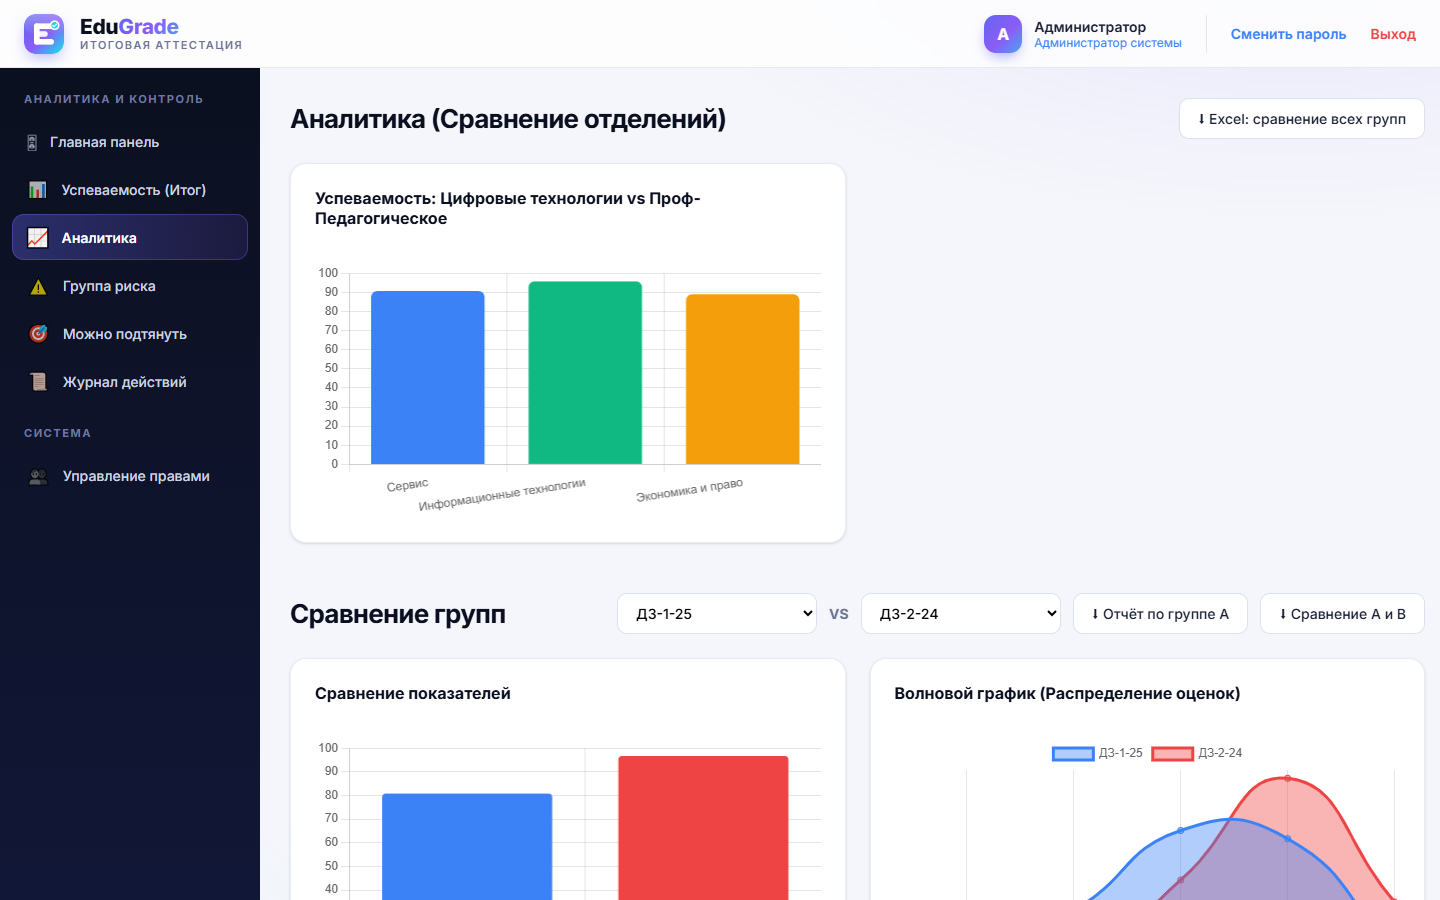
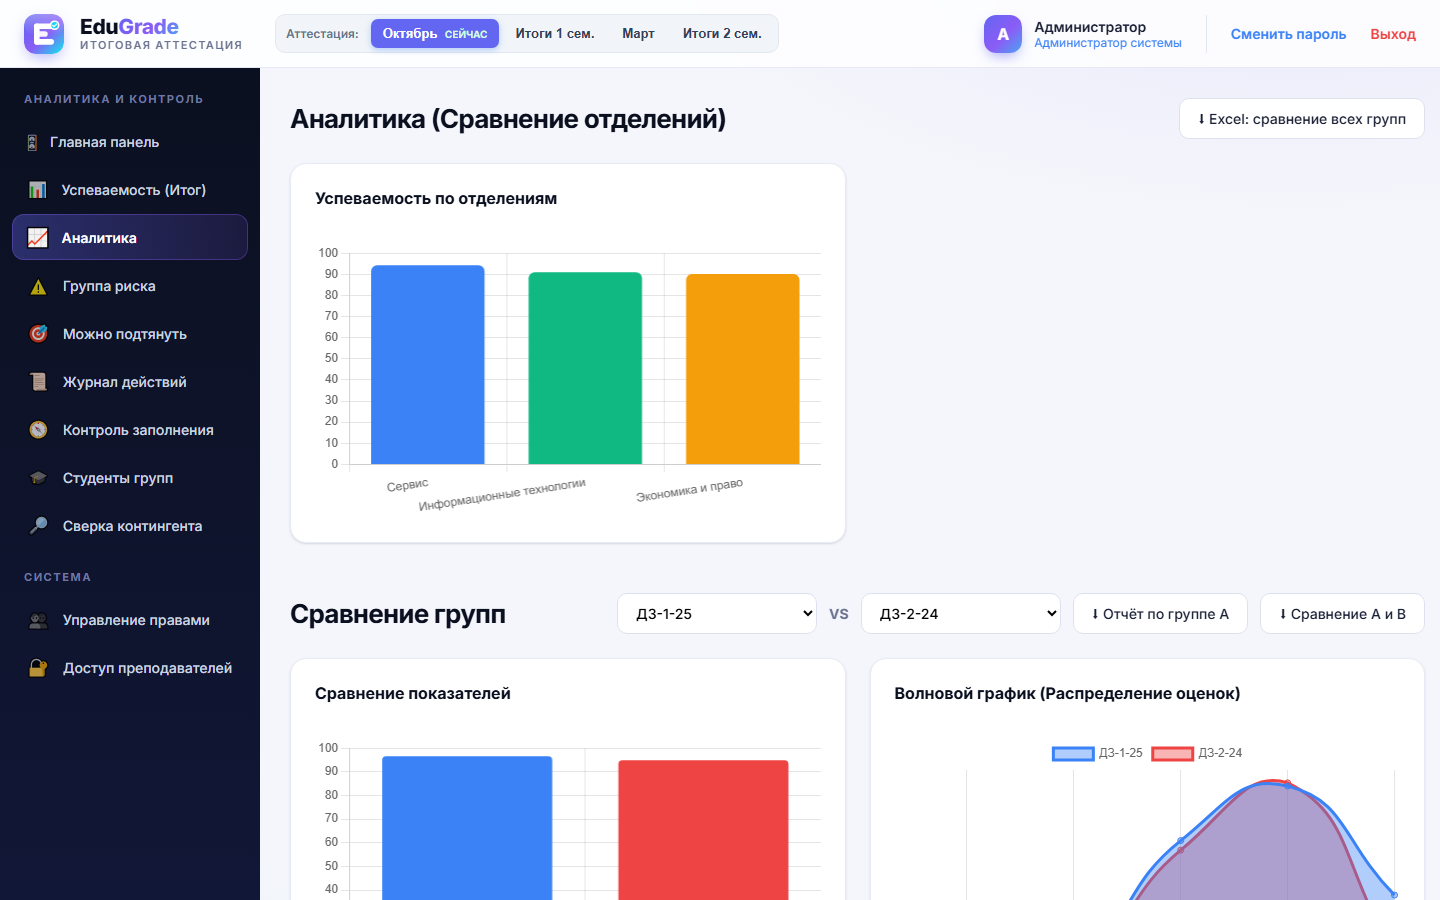
README: every screen with a screenshot and a description; fix tab highlight and users table layout
- README rewritten: roles, a tour of all screens (15 screenshots of the demo college), attestation periods;
- risk.js toggled the active tab of every .risk-tab on the page, which broke the tabs of other views: now scoped to #risk-view;
- users table: nine columns no longer overlap in the fixed table layout.

diff --git a/frontend/index.html b/frontend/index.html
@@ -379,7 +379,7 @@
                             <button class="egov-btn-primary" onclick="issuePasswords(this)">🔑 Выдать пароли выбранным</button>
                         </div>
                     </div>
-                    <div style="display: grid; grid-template-columns: 1fr 2.4fr; grid-template-rows: minmax(0, 1fr); gap: 24px; flex: 1; min-height: 0; padding-bottom: 24px;">
+                    <div style="display: grid; grid-template-columns: minmax(250px, 1fr) 3.4fr; grid-template-rows: minmax(0, 1fr); gap: 24px; flex: 1; min-height: 0; padding-bottom: 24px;">
                         <div class="dash-card flex-card">
                             <h3>Регистрация сотрудника</h3>
                             <form onsubmit="handleCreateUser(event)" style="display: flex; flex-direction: column; flex: 1;">

diff --git a/frontend/css/risk.css b/frontend/css/risk.css
@@ -50,6 +50,13 @@
 #users-view > div:nth-of-type(2) { min-height: 0; grid-template-rows: minmax(0, 1fr); }
 #users-view .flex-card { min-height: 0; }
 #users-table th { position: sticky; top: 0; z-index: 2; }
+#users-table { table-layout: auto; }                       /* девять колонок не помещаются в фиксированную раскладку */
+#users-table td, #users-table th { vertical-align: middle; }
+#users-table td:nth-child(5) { white-space: nowrap; }      /* роль */
+#users-table th, #users-table td { padding: 8px 5px; font-size: 12.5px; }
+#users-table th { font-size: 11px; }
+#users-table select { font-size: 12px; }
+#users-table input[type=checkbox] { width: 16px; height: 16px; padding: 0; }
 
 #pullup-view > * { flex-shrink: 0; }
 #curator-view > *, #reconcile-view > * { flex-shrink: 0; }

diff --git a/frontend/js/risk.js b/frontend/js/risk.js
@@ -137,7 +137,7 @@ function pctOf(a, b) { return b ? (a * 100 / b).toFixed(1) : '0.0'; }
 // ---------- вкладки и таблицы
 function riskSwitchTab(tab) {
     riskTab = tab;
-    document.querySelectorAll('.risk-tab').forEach(b => b.classList.toggle('active', b.dataset.tab === tab));
+    document.querySelectorAll('#risk-view .risk-tab').forEach(b => b.classList.toggle('active', b.dataset.tab === tab));   // только свои вкладки
     const lvl = $('risk-level');
     lvl.innerHTML = (RISK_LEVELS[tab] || []).map(([v, t]) => `<option value="${v}">${esc(t)}</option>`).join('');
     lvl.style.display = RISK_LEVELS[tab] ? '' : 'none';

diff --git a/README.md b/README.md
@@ -1,50 +1,158 @@
 # EduGrade
 
 Electronic final-grade register for a college. Teachers enter final grades for their groups;
-the administration sees the whole college at once: analytics by department and group, students at risk,
-and Excel reports in one click. Built for and used at a college in Kostanay, Kazakhstan.
+curators watch their own group; heads of department and the administration see analytics, students at risk
+and Excel reports in one click. Built for and used at a college in Kazakhstan.
 
 ![Teacher's grade register](docs/screenshots/register.png)
 
-*Screenshots use a generated demo college; all names are fictional.*
+*All screenshots use a generated demo college; every name is fictional.*
 
-## What it does
+## Contents
 
-**For teachers**
-- log in and see only your own groups and subjects;
-- 100-point scale with automatic conversion: 90–100 → 5, 70–89 → 4, 50–69 → 3, below 50 → not certified, «Н» → absent;
-- export your register to Excel;
-- a hint when a student is **one three away** from a better result in your subject.
+- [Roles](#roles)
+- [Tour of the screens](#tour-of-the-screens)
+- [Attestation periods](#attestation-periods)
+- [Security](#security)
+- [Stack](#stack)
+- [Try it with demo data](#try-it-with-demo-data)
+- [Real data](#real-data) · [Configuration](#configuration) · [Layout](#layout)
 
-**For curators** (a teacher assigned to a group)
-- *My group*: who has not got final grades yet, per subject and teacher, in one table (also as Excel);
-- a ZIP of per-student results for parents;
-- the group roster: add students, fix names, remove students (moving a student to another group stays with the administrator).
+## Roles
 
-**For heads of department**
-- the analytics, at-risk and "can be pulled up" views and group summaries, **limited to their own department**;
-- no access to user management, passwords or the audit log.
+| role | sees | can do |
+|---|---|---|
+| **Teacher** | only their own groups and subjects | enter final grades, export the register, get a hint when a student is one three away from a better result |
+| **Curator** (a teacher assigned to a group) | everything a teacher sees, plus their group | check who has no final grades yet, download results for parents, edit the group roster |
+| **Head of department** (a teacher with a department) | analytics, risk lists and group summaries of **their department** | no access to user management, passwords or the audit log |
+| **Administrator** | the whole college | everything above, plus access control, roster reconciliation, user management and the audit log |
 
-**For the administration**
-- dashboard and per-department / per-group analytics, with side-by-side comparison of any two groups;
-- **At-risk module**: weak groups and students with configurable thresholds, plus "dead souls": students with no grades at all;
-- **Can be pulled up**: students one or two subjects away from a better result;
-- **Attestation periods** (October, 1st semester, March, 2nd semester): every view and report can be switched between them,
-  teachers always work in the current one;
-- **Access control**: assign a group and subject to a teacher, create a practice, hand a register over to another teacher,
-  appoint a curator or a head of department;
-- **Roster reconciliation**: compare the students in the system with the official list, group by group (Excel);
-- Excel reports: group report, group comparison, college-wide comparison, risk lists, completeness control;
-- user management with password issuing and account removal, plus an audit log of every grade change;
-- a one-time "What's new" window after an update, written per role.
+## Tour of the screens
 
-**Security**
+The grading scale is 0–100 with automatic conversion: 90–100 → 5, 70–89 → 4, 50–69 → 3, below 50 → not certified,
+«Н» → absent.
+
+### Sign in
+
+![Sign in](docs/screenshots/login.png)
+
+Sign-in by login or ID number. A temporary password has to be changed at the first login, and every password
+field has a show/hide toggle. Failed attempts are rate-limited.
+
+### Final register (*Итоговая ведомость*) — teachers
+
+![Final register](docs/screenshots/register.png)
+
+Pick a group and a subject, type a score from 0 to 100 (or «Н») next to each student and save. The grade (5 / 4 / 3 /
+not certified) is calculated automatically. The header shows how many students are filled in and the distribution.
+If a student is **one three away** from being a "good" student in this subject, the row is highlighted and the chips
+above the table list such cases. *Excel* downloads the register.
+
+### What's new window — everyone
+
+![What's new](docs/screenshots/news.png)
+
+After an update every user sees a one-time window with the changes that matter **for their role** (here: a head of
+department). The text lives in `backend/notify.py`; change `NEWS_VERSION` to show it again.
+
+### Dashboard (*Главная панель*)
+
+![Dashboard](docs/screenshots/dashboard.png)
+
+Students in the database, number of grades entered and number of groups, with small charts. For a head of department
+the same page is limited to their department:
+
+![Dashboard of a head of department](docs/screenshots/head.png)
+
+### Performance (*Успеваемость*)
+
+![Performance](docs/screenshots/performance.png)
+
+How the final grades are distributed across the college: counts per grade and the share of students per grade.
+
+### Analytics (*Аналитика*)
+
+![Analytics](docs/screenshots/analytics.png)
+
+Performance by department and by group, plus a side-by-side comparison of any groups. The comparison, or all groups,
+downloads as Excel.
+
+### At-risk (*Группа риска*)
+
+![At-risk](docs/screenshots/risk.png)
+
+- **Weak groups** — low average, many weak students or many "not certified";
+- **Weak students**, by severity;
+- **Dead souls** — students with no grades at all, plus those who are just suspicious;
+- **Groups without data** — nobody has entered anything yet.
+
+The thresholds are adjustable (*Пороги*); every list and the full report download as Excel.
+
+### Can be pulled up (*Можно подтянуть*)
+
+![Can be pulled up](docs/screenshots/pullup.png)
+
+Students with one or two threes and nothing below, who become "good" students if one or two subjects are improved.
+For every student the page shows which subject and which teacher, how many points are missing, and how easy the case is.
+Also available **by group**, with the knowledge-quality metric and the potential gain.
+
+### Completeness control (*Контроль заполнения*) — curators, heads, administration
+
+![Completeness control](docs/screenshots/completeness.png)
+
+Pick a group: who has entered the finals and who has not, per subject and per teacher; students who are one three away
+from a better result; the number of students against the official list. Four tabs: **summary table**, **by subject**,
+**by student**, **roster**. Downloads: completeness (Excel), the summary table (Excel), a **ZIP of per-student results
+for parents**, and the whole college (for the administration) or the whole department (for a head).
+A group can be marked as **graduating**: its semester results count as the final attestation.
+
+### Group roster (*Студенты групп*)
+
+![Group roster](docs/screenshots/roster.png)
+
+The roster tab of the same screen: add a student, correct a name, remove a student. Moving a student to another group
+is left to the administrator. Curators get the same screen as *My group* (*Моя группа*).
+
+### Roster reconciliation (*Сверка контингента*) — administration
+
+![Roster reconciliation](docs/screenshots/reconcile.png)
+
+Compares the number of students loaded into the system with the official list of the college, group by group:
+**matches**, **fewer in the system**, **more in the system**, **not in the list**. The result downloads as Excel.
+
+### User management (*Управление правами*) — administration
+
+![User management](docs/screenshots/users.png)
+
+Create accounts, choose the access level, **appoint a head of department**, and **remove** an account.
+*Select not logged in* + *Issue passwords to selected* creates temporary passwords and downloads an Excel file with the
+logins and passwords; a teacher sets their own at the first login.
+
+### Teacher access (*Доступ преподавателей*) — administration
+
+![Teacher access](docs/screenshots/access.png)
+
+Pin a group and a subject to a teacher (this opens the register for them), create a **practice**, **hand a register over**
+to another teacher, unpin, and **appoint a curator**. Work **by teacher** or **by group**. Every change goes to the audit log.
+
+### Audit log (*Журнал действий*) — administration
+
+![Audit log](docs/screenshots/logs.png)
+
+Who changed which grade and when, who logged in, who downloaded which report, who changed access. Searchable.
+
+## Attestation periods
+
+The strip at the top (*Аттестация*) switches the screens and reports between four periods:
+**October**, **1st semester**, **March**, **2nd semester**. Administrators and curators can look at any period;
+teachers always work in the current one (chosen by the calendar), whatever the request says.
+
+## Security
+
 - JWT sessions with revocation (a password change or block logs out every device), bcrypt hashes;
-- forced password change on first login, login rate limiting, CORS and proxy settings via environment variables.
-
-| Analytics | At-risk students |
-|---|---|
-| ![Analytics](docs/screenshots/analytics.png) | ![At-risk module](docs/screenshots/risk.png) |
+- forced password change on first login, login rate limiting, CORS and proxy settings via environment variables;
+- a head of department can only reach their own department, on the server side as well as in the menu;
+- every grade change, login, export and access change is written to the audit log.
 
 ## Stack
 
@@ -64,7 +172,8 @@ python run.py start
 
 The site opens at http://127.0.0.1:5500 and the API runs on port 8000.
 Log in as `admin` / `admin` (you'll be asked to change the password) or as `teacher1`…`teacher8` / `demo`.
-In the demo `teacher1` is a head of department; most groups have a curator, and one group is a graduating one.
+In the demo `teacher1` is a head of department, most groups have a curator, the official-list counts differ from the
+system in a few groups, and one group is a graduating one — so every screen above has something to show.
 
 On Windows you can just double-click `start.bat`: it creates the environment, installs dependencies and opens a menu.
 
@@ -82,8 +191,8 @@ The database is backed up to `backups/` before any of them.
 ## Real data
 
 Student lists (`backend/seed.py`, `backend/seed_students_fix.py`) and curricula (`backend/plans/*.xls[x]`)
-contain personal data and are not in the repository, nor are the college's official lists. With them in place, `python backend/setup_db.py --fresh`
-builds the production database.
+contain personal data and are not in the repository, nor are the college's official lists.
+With them in place, `python backend/setup_db.py --fresh` builds the production database.
 
 ## Configuration
 
@@ -101,9 +210,9 @@ Environment variables:
 ## Layout
 
 ```
-backend/    API, models, reports, database scripts
+backend/    API, models, reports, periods, curator and access modules, database scripts
 frontend/   page, styles and scripts
-docs/       screenshots
+docs/       screenshots (generated from the demo college)
 run.py      start and maintenance
 start.bat   the same for Windows
 ```
